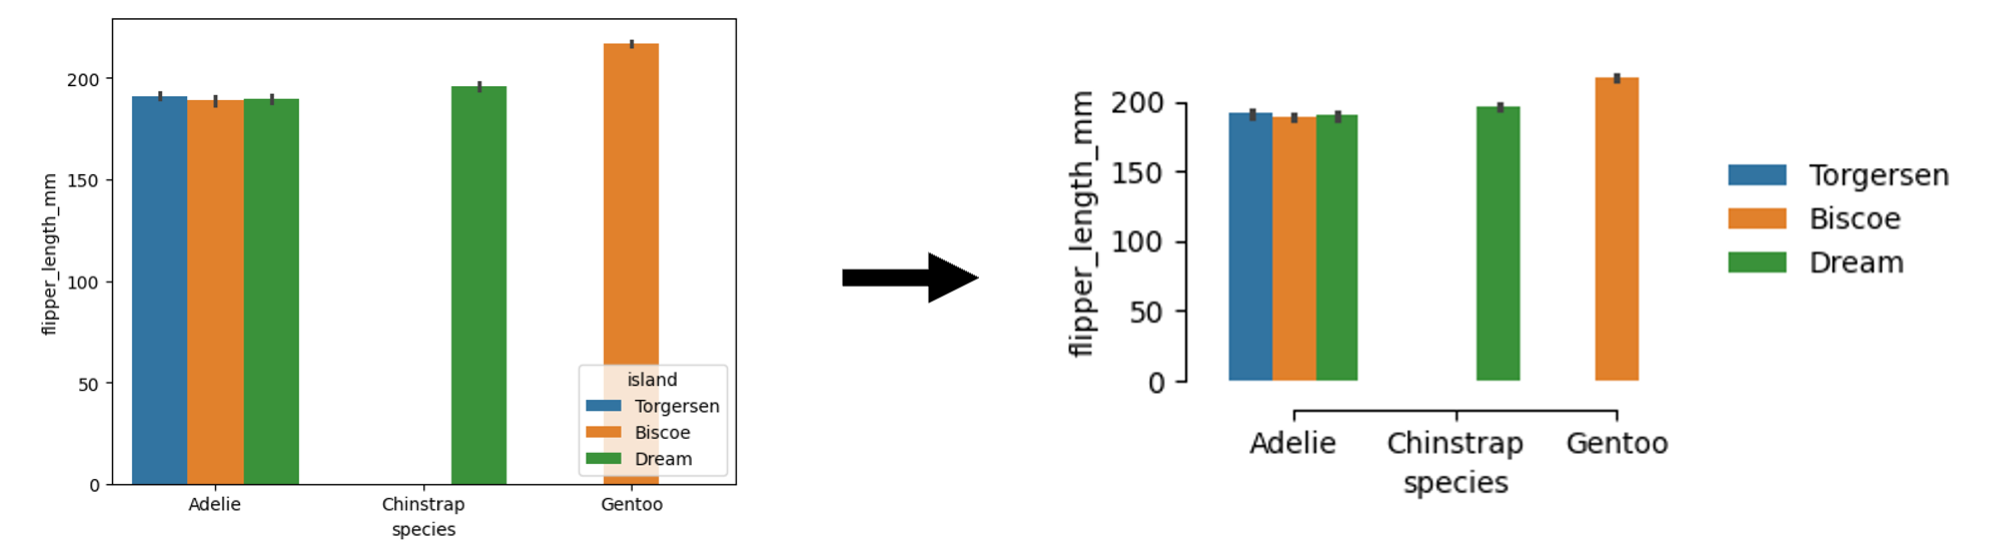
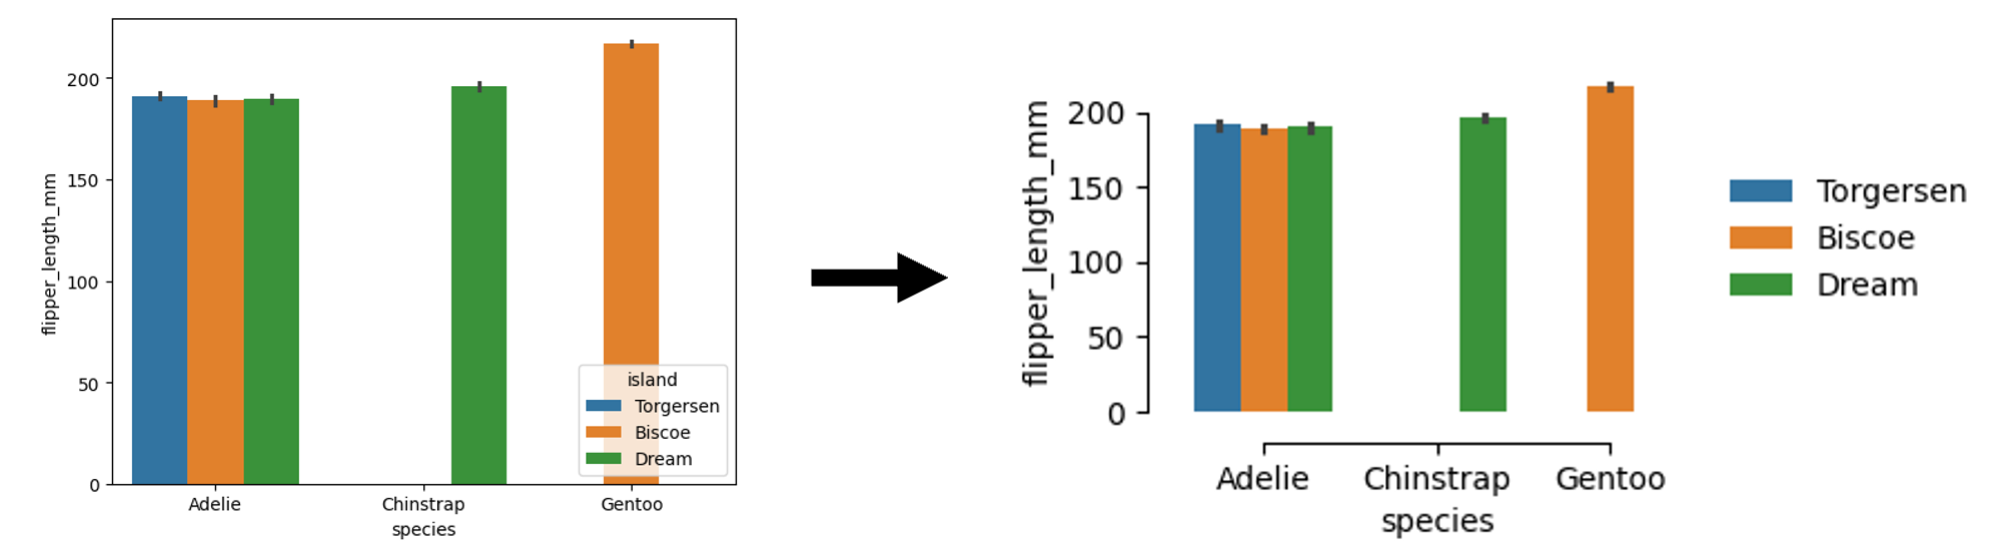
update tips

Changed region(s): [[0.403, 0.1214, 0.992, 0.8804], [0.682, 0.9107, 0.744, 0.9714]]

diff --git a/README.md b/README.md
@@ -12,8 +12,8 @@ When possible, your figures should be:
 - **Editable**: you can directly edit the text of the figures, e.g., using a tool such as *Adobe Illustrator*. Note that a text can be vectorized but not editable, if the text is defined as a contour shape (default in matplotlib).
 
 Sometimes, using a vector format can lead to a very heavy plot (e.g., a scatter plot with millions of points). In that case, your Figure should be:
-- **Rasterized**: a "usual" image as a grid of pixels. The resolution (i.e., the DPI) should be sufficient. For some journals, 300 DPI is mandatory.
-- **Vectorized legend**: although the main plot is rasterized, you can keep legends/labels vectorized and editable. ***[See code snippets below]***
+- **Rasterized**: a "usual" image as a grid of pixels. The resolution (i.e., the DPI) should be sufficient. For some journals, **300 DPI** is mandatory.
+- **Vectorized legend**: although the main plot is rasterized, you can keep legends/labels vectorized and editable. It's possible to save a PDF with a mixed format (raster and vector). ***[See code snippets below]***
 
 ## Styling guidelines
 
@@ -94,7 +94,7 @@ fig, ax = plt.subplots(figsize=(4, 3))
 
 ## Example
 
-In this example, we show how to improve a dummy plot via (i) changing the size of the plot, (ii) moving the legend location, and (iii) removing the borders/spines.
+In this example, we show how to improve a dummy plot via (i) changing the size of the plot, (ii) moving the legend location, and (iii) removing the borders/spines. The plot becomes more readable. ***[See Python code below]***
 
 <p align="center">
   <img src="https://raw.githubusercontent.com/MICS-Lab/figure_tips/refs/heads/main/example.png" alt="tips_example" width="100%"/>
